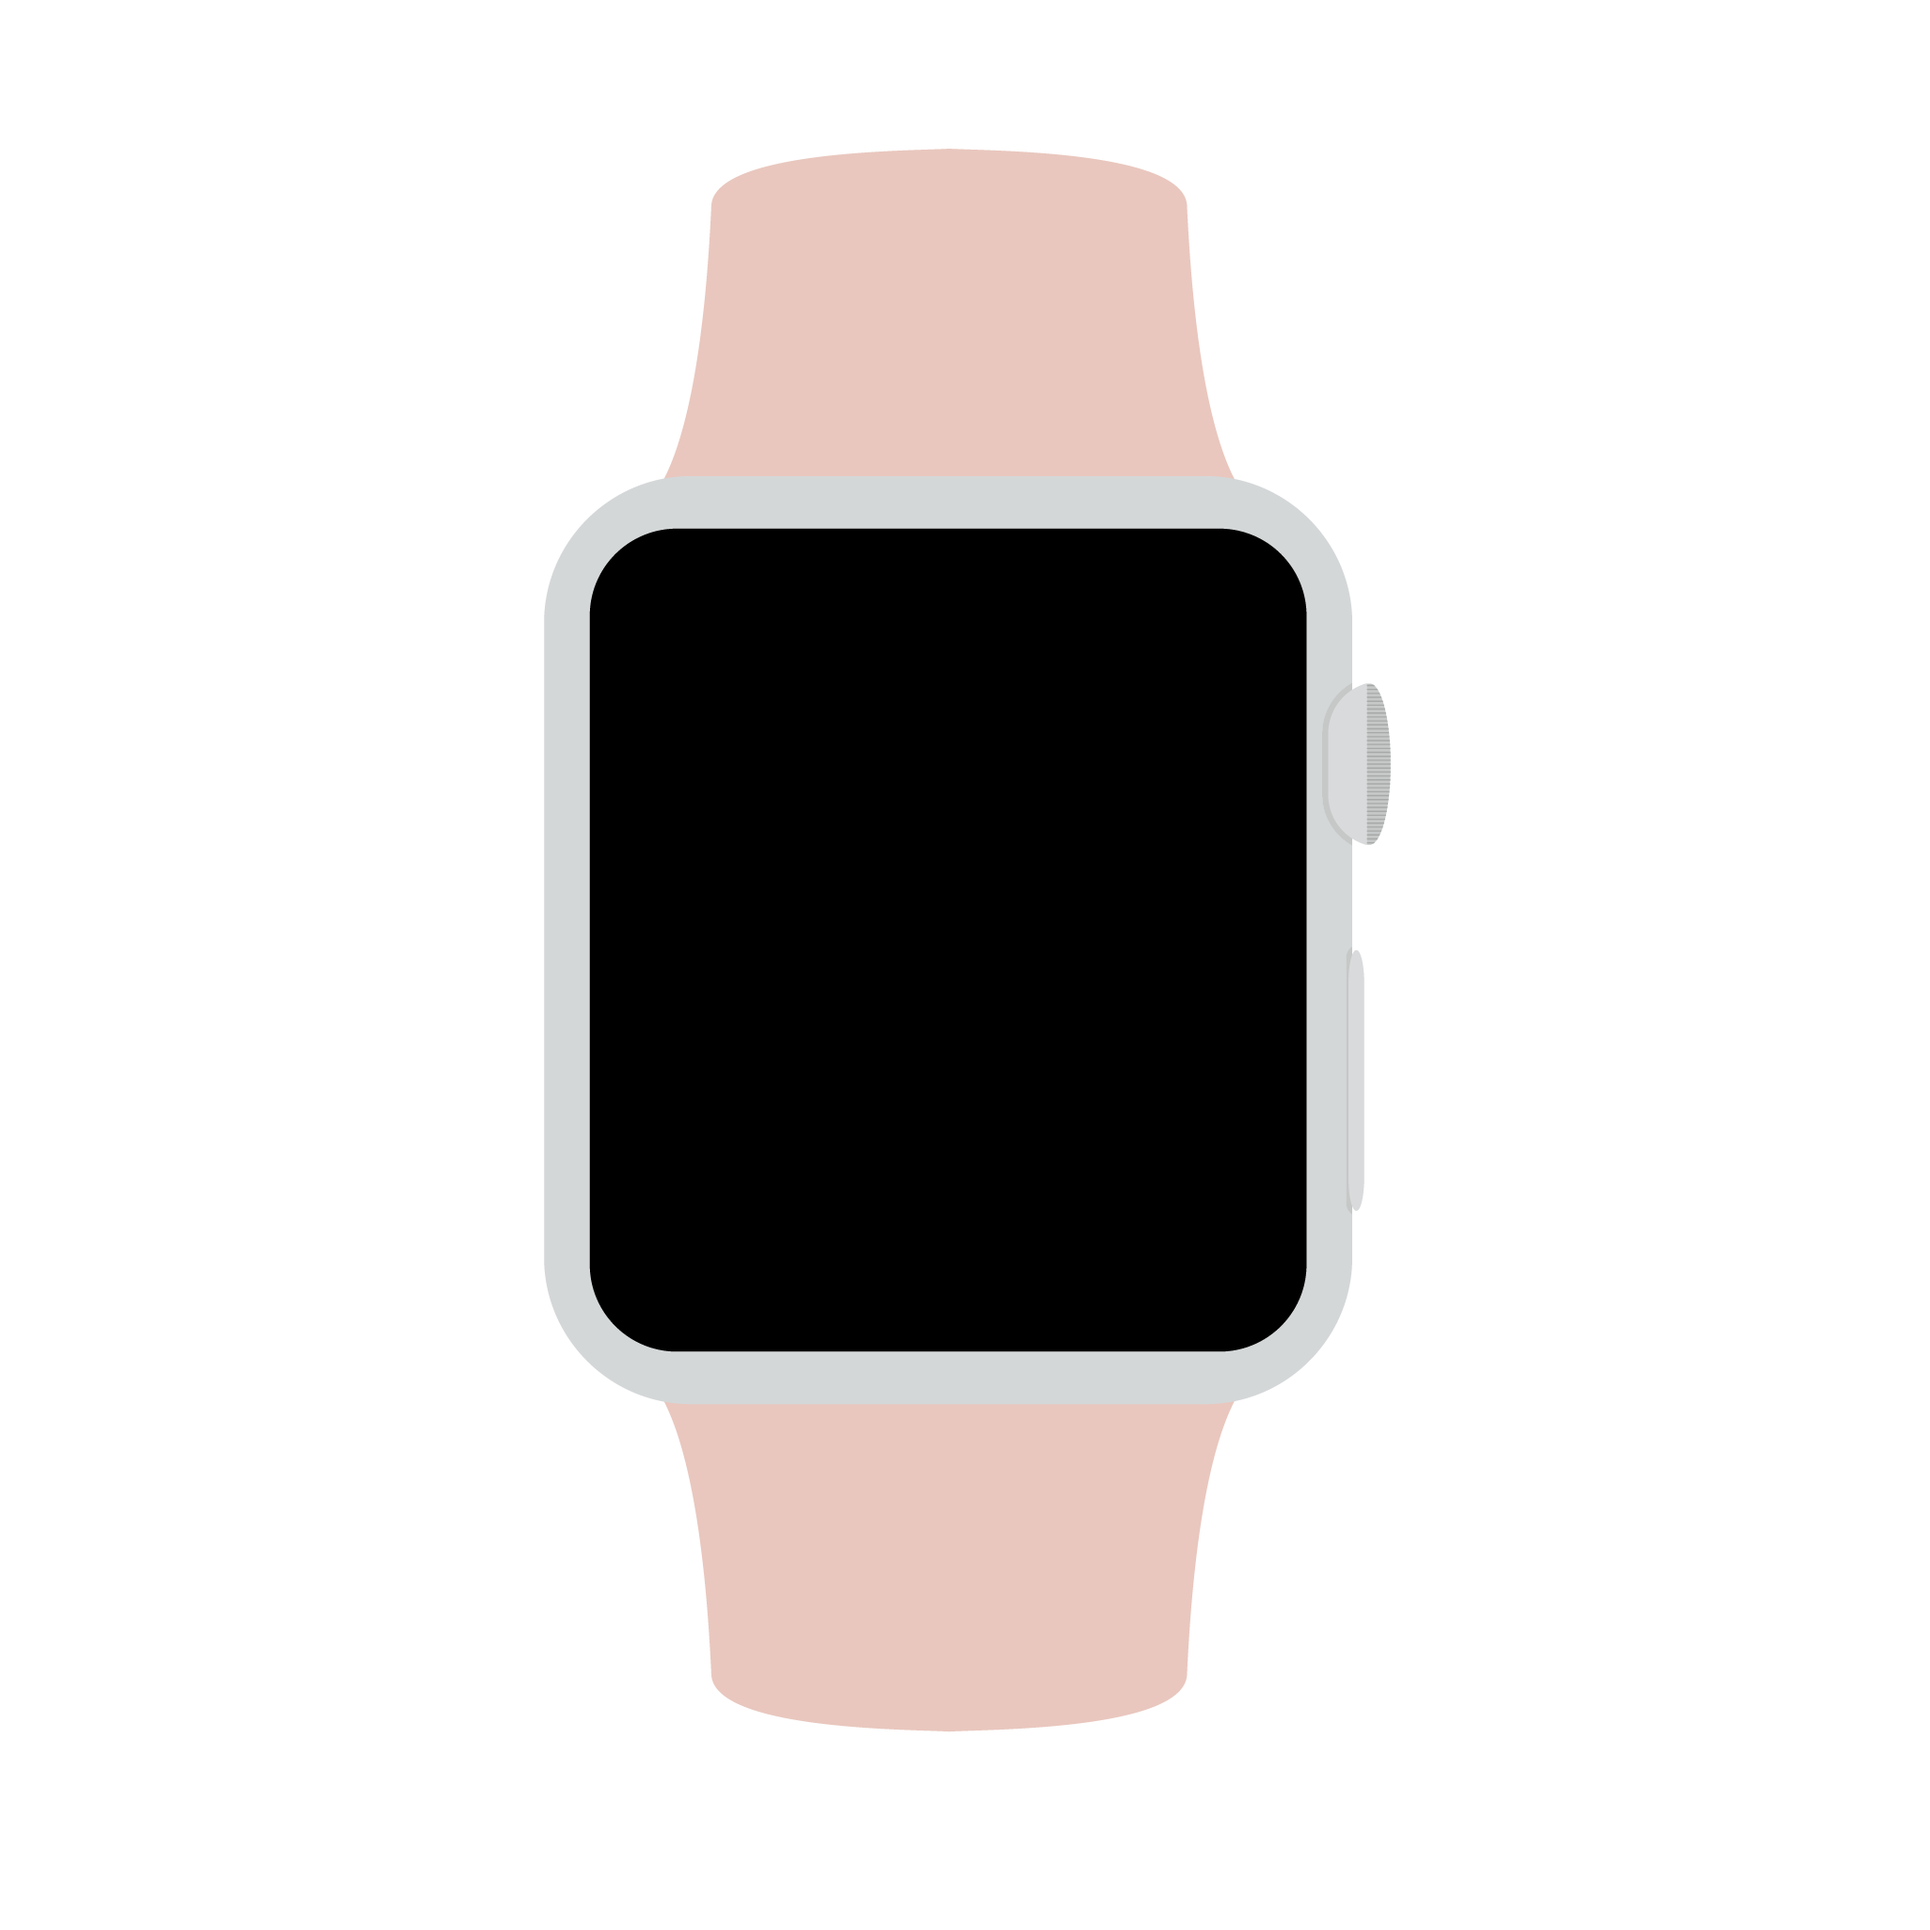
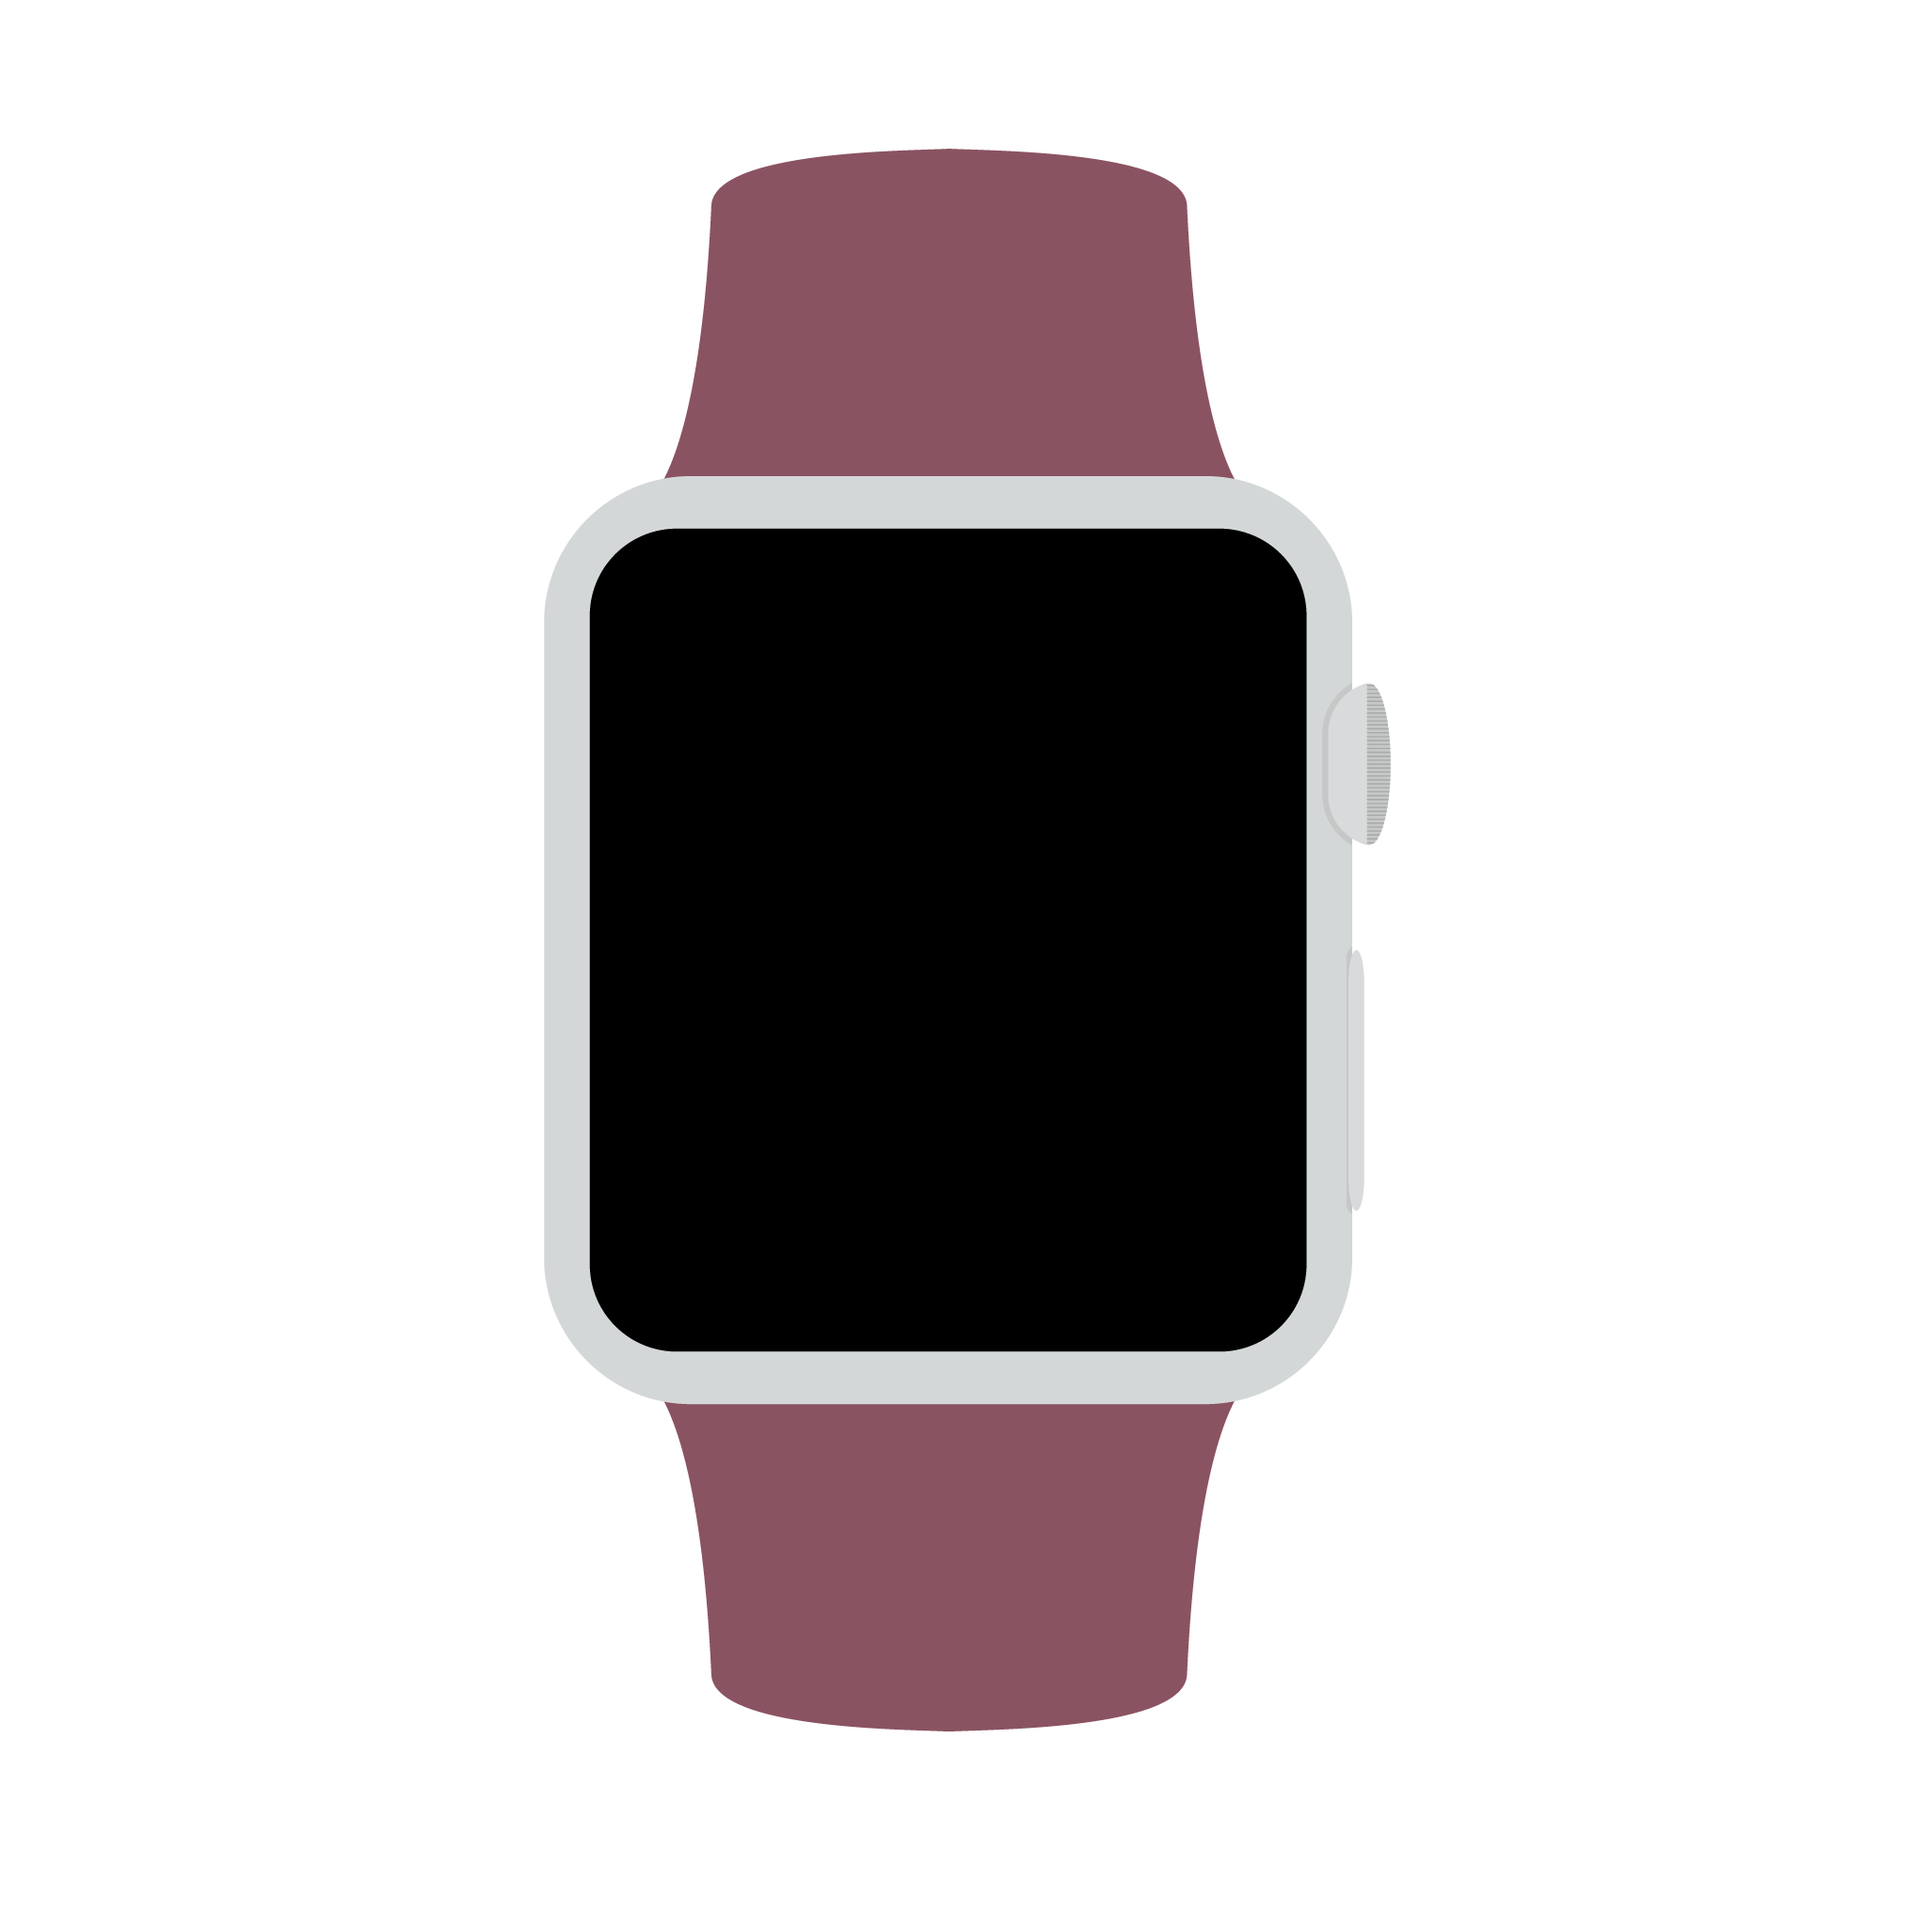
Added eventlistener to change img

Changed region(s): [[0.3432, 0.7177, 0.6553, 0.9049], [0.3432, 0.0624, 0.6553, 0.2496]]

diff --git a/index.html b/index.html
@@ -23,7 +23,7 @@
             <div class="row">
                 <div class="col-lg-4">
                     <div class="left-sec">
-                        <img src="./images/black-watch.png" alt="">
+                        <img id="chng-img" src="./images/black-watch.png" alt="">
                     </div>
                 </div>
                 <div class="col-lg-8" style="border-left: 2px solid whitesmoke;">
@@ -31,19 +31,23 @@
                         <div class="description">
                             <h1>x47- The Smartest Watch</h1>
                             <p>Lorem ipsum, dolor sit amet consectetur adipisicing elit. Incidunt, dignissimos doloribus. Et cupiditate tenetur ullam, deserunt blanditiis laboriosam minima, hic magnam, inventore dolore earum ea consequuntur debitis. Doloribus, error nisi.</p>
-                            <h5>Select Colors</h5>
+                            <h5 class="pt-3">Select Color</h5>
                             <div class="color-block">
-                                <div class="firstColor"></div>
-                                <div class="secondColor"></div>
-                                <div class="thirdColor"></div>
-                                <div class="fourColor"></div>
-                                <div class="fiveColor"></div>
+                                <div id="firstColor"></div>
+                                <div id="secondColor"></div>
+                                <div id="thirdColor"></div>
+                                <div id="fourColor"></div>
+                                <div id="fiveColor"></div>
                             </div>
-                            <div class="features">
-                                <h5>Features</h5>
+                            <div class="features pt-3">
+                                <h5 class="mb-3">Features</h5>
                                 <a href="#">Time</a>
                                 <a href="#">Heart-Rate</a>
                                 <a href="#">Always-On-Display</a>
+                            </div>
+                            <div class="buySec pt-3">
+                                <h5 class="mb-3">Buy Now!</h5>
+                                <a href="#">Buy</a>
                             </div>
                         </div>
                     </div>
@@ -63,7 +67,8 @@
 
 
     <script src="https://cdn.jsdelivr.net/npm/jquery@3.5.1/dist/jquery.slim.min.js" integrity="sha384-DfXdz2htPH0lsSSs5nCTpuj/zy4C+OGpamoFVy38MVBnE+IbbVYUew+OrCXaRkfj" crossorigin="anonymous"></script>
-<script src="https://cdn.jsdelivr.net/npm/popper.js@1.16.1/dist/umd/popper.min.js" integrity="sha384-9/reFTGAW83EW2RDu2S0VKaIzap3H66lZH81PoYlFhbGU+6BZp6G7niu735Sk7lN" crossorigin="anonymous"></script>
-<script src="https://cdn.jsdelivr.net/npm/bootstrap@4.6.1/dist/js/bootstrap.min.js" integrity="sha384-VHvPCCyXqtD5DqJeNxl2dtTyhF78xXNXdkwX1CZeRusQfRKp+tA7hAShOK/B/fQ2" crossorigin="anonymous"></script>
+    <script src="https://cdn.jsdelivr.net/npm/popper.js@1.16.1/dist/umd/popper.min.js" integrity="sha384-9/reFTGAW83EW2RDu2S0VKaIzap3H66lZH81PoYlFhbGU+6BZp6G7niu735Sk7lN" crossorigin="anonymous"></script>
+    <script src="https://cdn.jsdelivr.net/npm/bootstrap@4.6.1/dist/js/bootstrap.min.js" integrity="sha384-VHvPCCyXqtD5DqJeNxl2dtTyhF78xXNXdkwX1CZeRusQfRKp+tA7hAShOK/B/fQ2" crossorigin="anonymous"></script>
+    <script src="./index.js"></script>
 </body>
 </html>

diff --git a/style.css b/style.css
@@ -9,8 +9,8 @@
     padding: 20px;
 }
 .product-section {
-    padding-top: 162px;
-    padding-bottom: 163px;
+    padding-top: 138px;
+    padding-bottom: 138px;
 }
 footer p{
     color: white;
@@ -48,18 +48,34 @@ footer p{
     border-radius: 5px;
     margin-right: 8px;
 }
-.firstColor {
+#firstColor {
     background-color: #565681;
 }
-.secondColor {
+#secondColor {
     background-color: #8A5362;
 }
-.thirdColor {
+#thirdColor {
     background-color: black;
 }
-.fourColor {
+#fourColor {
     background-color: #CA3D22;
 }
-.fiveColor {
+#fiveColor {
     background-color: #E9C7BE;
+}
+.features a {
+    background-color: #EFEFEF;
+    color: black;
+    font-size: 13px;
+    padding: 10px 20px 10px 20px;
+    letter-spacing: 1px;
+    border-radius: 5px;
+}
+.buySec a {
+    background-color: black;
+    color: white;
+    font-size: 13px;
+    padding: 10px 27px 10px 27px;
+    letter-spacing: 1px;
+    border-radius: 5px;
 }

diff --git a/index.js b/index.js
@@ -1,0 +1,27 @@
+let fcolor = document.getElementById('firstColor')
+let scolor = document.getElementById('secondColor')
+let tcolor = document.getElementById('thirdColor')
+let focolor = document.getElementById('fourColor')
+let ficolor = document.getElementById('fiveColor')
+
+let chImg = document.getElementById('chng-img')
+
+fcolor.addEventListener("click", function(){
+    chImg.src = './images/purple-watch.png'
+})
+
+scolor.addEventListener("click", function(){
+    chImg.src = './images/pink-watch.png'
+})
+
+tcolor.addEventListener("click", function(){
+    chImg.src = './images/black-watch.png'
+})
+
+focolor.addEventListener("click", function(){
+    chImg.src = './images/orange-watch.png'
+})
+
+ficolor.addEventListener("click", function(){
+    chImg.src = './images/skin-watch.png'
+})
